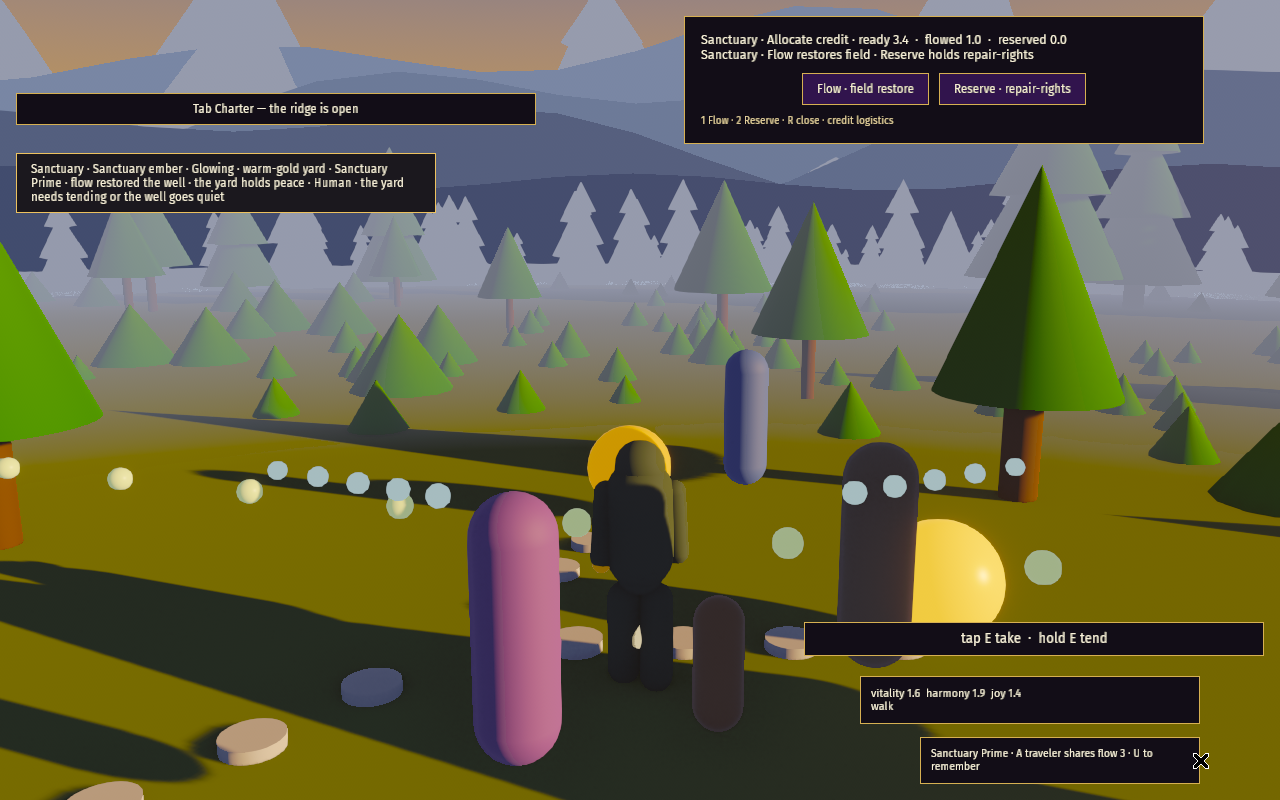
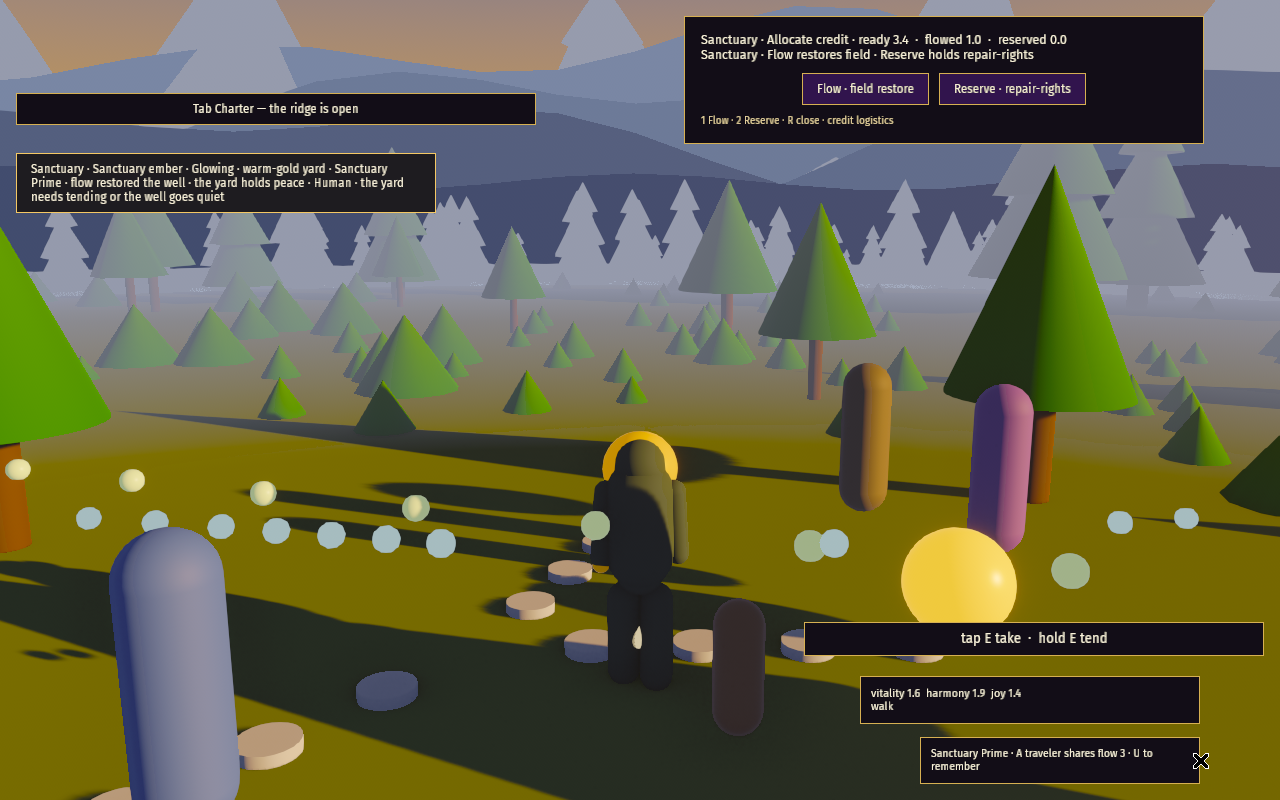
VP-VFX-1: keep Tend/Flow motes clear of every Use glow (screen-space clearance + test)

diff --git a/client/src/tend_flow_vfx.rs b/client/src/tend_flow_vfx.rs
@@ -14,6 +14,7 @@ use bevy::prelude::*;
 use shared::local_settings::GraphicsPreset;
 
 use crate::local_settings::LocalSettingsState;
+use crate::mercy_harvest_nodes::MercyHarvestNode;
 use crate::world_answer::{AnswerKind, WorldAnswer};
 
 /// Mobile: off.
@@ -29,6 +30,98 @@ pub const VFX_BURST_TEND: usize = 6;
 pub const VFX_BURST_FLOW: usize = 10;
 pub const VFX_LIFE_TEND_SECS: f32 = 1.6;
 pub const VFX_LIFE_FLOW_SECS: f32 = 2.2;
+
+/// Mote mesh radius (world units).
+pub const VFX_MOTE_RADIUS: f32 = 0.09;
+/// Harvest-node (Use glow) sphere radius at scale 1 (`mercy_harvest_nodes`).
+pub const GLOW_BASE_RADIUS: f32 = 0.48;
+/// Clearance kept around every glow, as a multiple of its drawn radius.
+pub const GLOW_CLEARANCE_FACTOR: f32 = 1.6;
+/// Rise speeds (world units / s).
+pub const VFX_RISE_TEND: f32 = 0.6;
+pub const VFX_RISE_FLOW: f32 = 0.9;
+
+/// A Use-glow source: world centre and clearance radius (already padded).
+#[derive(Debug, Clone, Copy, PartialEq)]
+pub struct GlowClear {
+    pub center: Vec3,
+    pub radius: f32,
+}
+
+/// Clearance sphere for a harvest-node glow drawn at `scale`.
+pub fn glow_clear(center: Vec3, scale: f32) -> GlowClear {
+    GlowClear {
+        center,
+        radius: GLOW_BASE_RADIUS * scale.max(0.0) * GLOW_CLEARANCE_FACTOR,
+    }
+}
+
+/// True when a mote at `p`, seen from `eye`, keeps clear of the glow on screen:
+/// the angular gap between the mote and the glow centre exceeds both angular
+/// radii (mote + padded glow). Screen-space, so a near mote can never sit
+/// over a far glow. Glows behind the eye are ignored.
+pub fn mote_clear_of(eye: Vec3, p: Vec3, glow: GlowClear) -> bool {
+    let to_m = p - eye;
+    let to_g = glow.center - eye;
+    let (dm, dg) = (to_m.length(), to_g.length());
+    if dg <= glow.radius || dm <= f32::EPSILON {
+        return dg > glow.radius && dm > f32::EPSILON; // eye inside a glow: nothing is clear
+    }
+    let gap = to_m.angle_between(to_g);
+    let ang_g = (glow.radius / dg).clamp(-1.0, 1.0).asin();
+    let ang_m = (VFX_MOTE_RADIUS / dm).clamp(-1.0, 1.0).asin();
+    gap > ang_g + ang_m
+}
+
+/// Whole rising path (start → start + up·rise·life) stays clear of every glow.
+pub fn mote_path_clear(eye: Vec3, start: Vec3, rise_total: f32, glows: &[GlowClear]) -> bool {
+    const STEPS: usize = 32;
+    (0..=STEPS).all(|k| {
+        let p = start + Vec3::Y * rise_total * (k as f32 / STEPS as f32);
+        glows.iter().all(|g| mote_clear_of(eye, p, *g))
+    })
+}
+
+/// Pure placement: up to `n` mote starts in the lower view band, beside centre,
+/// each with a whole path clear of every glow. Blocked slots are skipped
+/// (shifted to the next candidate); never more than `n`.
+pub fn plan_mote_starts(
+    eye: Vec3,
+    forward: Vec3,
+    right: Vec3,
+    cam_up: Vec3,
+    n: usize,
+    rise_total: f32,
+    glows: &[GlowClear],
+) -> Vec<Vec3> {
+    let mut out = Vec::with_capacity(n);
+    if n == 0 {
+        return out;
+    }
+    // Candidate slots: preferred band first, then lower / wider / nearer fallbacks.
+    const DEPTHS: [f32; 2] = [4.5, 3.4];
+    const DROPS: [f32; 3] = [1.1, 1.45, 0.8];
+    const LATERAL: [f32; 8] = [0.9, 1.15, 1.4, 1.65, 1.9, 2.2, 2.5, 2.8];
+    'outer: for depth in DEPTHS {
+        for drop in DROPS {
+            let origin = eye + forward * depth - cam_up * drop;
+            for (j, lat) in LATERAL.iter().enumerate() {
+                for side in [-1.0f32, 1.0] {
+                    let p = origin + right * side * *lat + Vec3::Y * (0.02 * j as f32);
+                    if mote_path_clear(eye, p, rise_total, glows)
+                        && out.iter().all(|q: &Vec3| q.distance(p) > 2.0 * VFX_MOTE_RADIUS)
+                    {
+                        out.push(p);
+                        if out.len() == n {
+                            break 'outer;
+                        }
+                    }
+                }
+            }
+        }
+    }
+    out
+}
 
 /// Hard ceiling on live motes for a preset.
 pub const fn vfx_cap(preset: GraphicsPreset) -> usize {
@@ -88,6 +181,7 @@ fn spawn_tend_flow_motes(
     settings: Option<Res<LocalSettingsState>>,
     cameras: Query<&GlobalTransform, With<Camera3d>>,
     live: Query<(), With<TendFlowMote>>,
+    glows: Query<&GlobalTransform, With<MercyHarvestNode>>,
     meshes: Option<ResMut<Assets<Mesh>>>,
     materials: Option<ResMut<Assets<StandardMaterial>>>,
     mut assets: ResMut<MoteAssets>,
@@ -110,7 +204,7 @@ fn spawn_tend_flow_motes(
 
     if let (Some(mut meshes), Some(mut materials)) = (meshes, materials) {
         if assets.mesh.is_none() {
-            assets.mesh = Some(meshes.add(Sphere::new(0.09).mesh().ico(1).unwrap()));
+            assets.mesh = Some(meshes.add(Sphere::new(VFX_MOTE_RADIUS).mesh().ico(1).unwrap()));
             assets.tend = Some(materials.add(StandardMaterial {
                 base_color: Color::srgb(1.0, 0.82, 0.45),
                 emissive: LinearRgba::rgb(2.2, 1.5, 0.55),
@@ -126,29 +220,33 @@ fn spawn_tend_flow_motes(
         }
     }
 
-    // Lower third of the view, to either side of centre.
-    let (origin, right, up) = cameras
+    let rise = if flow { VFX_RISE_FLOW } else { VFX_RISE_TEND };
+    let life = if flow { VFX_LIFE_FLOW_SECS } else { VFX_LIFE_TEND_SECS };
+    let clears: Vec<GlowClear> = glows
         .iter()
-        .next()
-        .map(|cam| {
-            let fwd = cam.forward().as_vec3();
-            (
-                cam.translation() + fwd * 4.5 - cam.up().as_vec3() * 1.1,
-                cam.right().as_vec3(),
-                Vec3::Y,
-            )
+        .map(|g| {
+            let (scale, _, t) = g.to_scale_rotation_translation();
+            glow_clear(t, scale.max_element())
         })
-        .unwrap_or((Vec3::ZERO, Vec3::X, Vec3::Y));
-
-    debug!(target: "powrush::vfx", ?preset, n, ?origin, "tend/flow motes");
-    for i in 0..n {
-        let t = i as f32 / n.max(1) as f32;
-        let side = if i % 2 == 0 { -1.0 } else { 1.0 };
-        let pos = origin + right * side * (0.9 + 0.9 * t) + up * (0.15 * t);
+        .collect();
+    let cam = cameras.iter().next().copied().unwrap_or_default();
+    let starts = plan_mote_starts(
+        cam.translation(),
+        cam.forward().as_vec3(),
+        cam.right().as_vec3(),
+        cam.up().as_vec3(),
+        n,
+        rise * life,
+        &clears,
+    );
+    debug!(target: "powrush::vfx", ?preset, n, placed = starts.len(), "tend/flow motes");
+    let count = starts.len();
+    for (i, pos) in starts.into_iter().enumerate() {
+        let t = i as f32 / count.max(1) as f32;
         let mote = TendFlowMote {
             age: 0.0,
-            life: if flow { VFX_LIFE_FLOW_SECS } else { VFX_LIFE_TEND_SECS },
-            rise: if flow { 0.9 } else { 0.6 },
+            life,
+            rise,
             base_scale: 1.0 - 0.3 * t,
         };
         let mut e = commands.spawn((mote, Transform::from_translation(pos), Visibility::default()));
@@ -249,6 +347,54 @@ mod tests {
                 assert_eq!(peak, 0, "Mobile is off");
             }
         }
+    }
+
+    #[test]
+    fn motes_never_land_inside_a_glow_clearance() {
+        let eye = Vec3::new(0.0, 3.0, 8.0);
+        let mut seed = 0x9e3779b9u32;
+        let mut rnd = || {
+            seed ^= seed << 13;
+            seed ^= seed >> 17;
+            seed ^= seed << 5;
+            (seed as f32 / u32::MAX as f32) * 2.0 - 1.0
+        };
+        let mut placed_total = 0;
+        for case in 0..400 {
+            let look = Vec3::new(rnd() * 2.0, -0.4 + rnd() * 0.3, -1.0).normalize();
+            let tf = Transform::from_translation(eye).looking_to(look, Vec3::Y);
+            let (fwd, right, up) = (tf.forward().as_vec3(), tf.right().as_vec3(), tf.up().as_vec3());
+            // Glows scattered in the lower view, including right where the band sits.
+            let glows: Vec<GlowClear> = (0..1 + case % 4)
+                .map(|_| {
+                    let c = eye + fwd * (3.0 + 6.0 * rnd().abs()) + right * rnd() * 3.0 - up * (0.6 + rnd().abs());
+                    glow_clear(c, 0.9 + 0.4 * rnd().abs())
+                })
+                .collect();
+            for (rise, n) in [(VFX_RISE_TEND * VFX_LIFE_TEND_SECS, VFX_BURST_TEND), (VFX_RISE_FLOW * VFX_LIFE_FLOW_SECS, VFX_BURST_FLOW)] {
+                let starts = plan_mote_starts(eye, fwd, right, up, n, rise, &glows);
+                assert!(starts.len() <= n);
+                placed_total += starts.len();
+                for p in starts {
+                    for k in 0..=32 {
+                        let q = p + Vec3::Y * rise * k as f32 / 32.0;
+                        for g in &glows {
+                            assert!(q.distance(g.center) > g.radius, "inside world clearance");
+                            assert!(mote_clear_of(eye, q, *g), "overlaps glow on screen");
+                        }
+                    }
+                }
+            }
+        }
+        assert!(placed_total > 0, "placement still draws motes");
+    }
+
+    #[test]
+    fn mote_over_a_glow_is_rejected() {
+        let eye = Vec3::ZERO;
+        let g = glow_clear(Vec3::new(0.0, 0.0, -8.0), 1.0);
+        assert!(!mote_clear_of(eye, Vec3::new(0.0, 0.0, -4.0), g));
+        assert!(mote_clear_of(eye, Vec3::new(3.0, 0.0, -4.0), g));
     }
 
     #[test]

diff --git a/docs/visual-pass/vp-vfx-1/README.md b/docs/visual-pass/vp-vfx-1/README.md
@@ -24,6 +24,15 @@ effect is triggered with real key presses on the existing bindings (E tap → Ta
 
 Per fire: Tend ≤ 6 motes / 1.6 s, Flow ≤ 10 motes / 2.2 s, always clamped to the cap.
 
+## Glow clearance
+
+Motes never sit over a Use glow. Every `MercyHarvestNode` is a glow source with a clearance
+sphere of `GLOW_BASE_RADIUS` (0.48) × its drawn scale × `GLOW_CLEARANCE_FACTOR` (1.6).
+`plan_mote_starts` only accepts a slot whose **whole rising path** is clear of every
+glow in screen space (`mote_clear_of`: the angular gap to the glow centre must exceed the
+padded glow's angular radius plus the mote's). Blocked slots shift to the next candidate
+(wider, lower or nearer in the band) and are skipped if none is clear. The cap is unchanged.
+
 ## Before / after — Low and Medium
 
 | Preset · action | Before | After |
@@ -56,10 +65,12 @@ Mean of the last 10 Bevy `frame_time` lines per run (window includes the Tend + 
 
 | Preset | Before | After | Budget |
 |---|---|---|---|
-| Low | 45.8 ms | 48.1 ms | ≤ 50 ms |
-| Medium | 93.9 ms | 95.6 ms | ≤ 100 ms |
-| High | 218.8 ms | 237.0 ms | none (beauty tier, capped) |
-| Ultra | 357.8 ms | 403.3 ms | none (beauty tier, capped) |
+| Low | 45.8 ms | 45.1 ms | ≤ 50 ms |
+| Medium | 93.9 ms | 92.3 ms¹ | ≤ 100 ms |
+| High | 218.8 ms | 223.9 ms | none (beauty tier, capped) |
+| Ultra | 357.8 ms | 446.7 ms | none (beauty tier, capped) |
+
+¹ The committed Medium after shots come from this run. Two other Medium after runs on the same head read 106.5 ms and 112.9 ms while the shared box was under load (load average ≈ 6). Placement runs only on a Tend or Flow fire, so per-frame cost is unchanged.
 
 High / Ultra runs used longer settle waits (slower software frames), so their before/after
 deltas include run-to-run noise.
